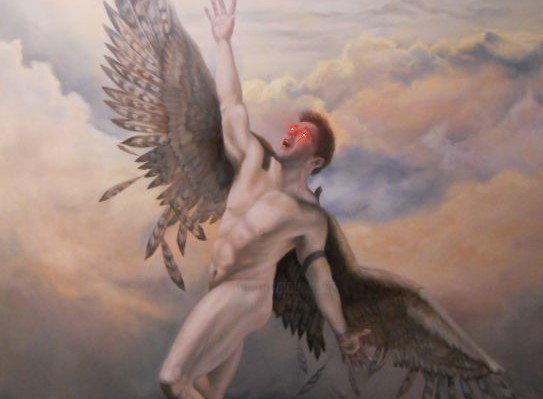
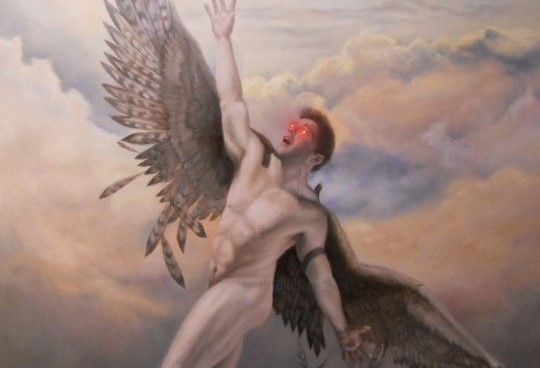
fixed resume url, cropped img

diff --git a/index.html b/index.html
@@ -31,7 +31,7 @@
         <h1 class="cover-heading">Harsh Anand</h1>
         <p class="lead">Hey, Harsh here! I am a junior at IIT Jodhpur. I do all things tech. Currently toying around with an AR Startup Idea.</p>
         <p class="lead">
-          <a target="_blank" href="https://github.com/hrshAnand/resume/raw/master/Harsh_Anand_Resume.pdf" class="btn btn-lg btn-secondary">Download Résumé</a>
+          <a target="_blank" href="/resume/Harsh_Anand_Resume.pdf" class="btn btn-lg btn-secondary">Download Résumé</a>
         </p>
       </main>
       </div>
